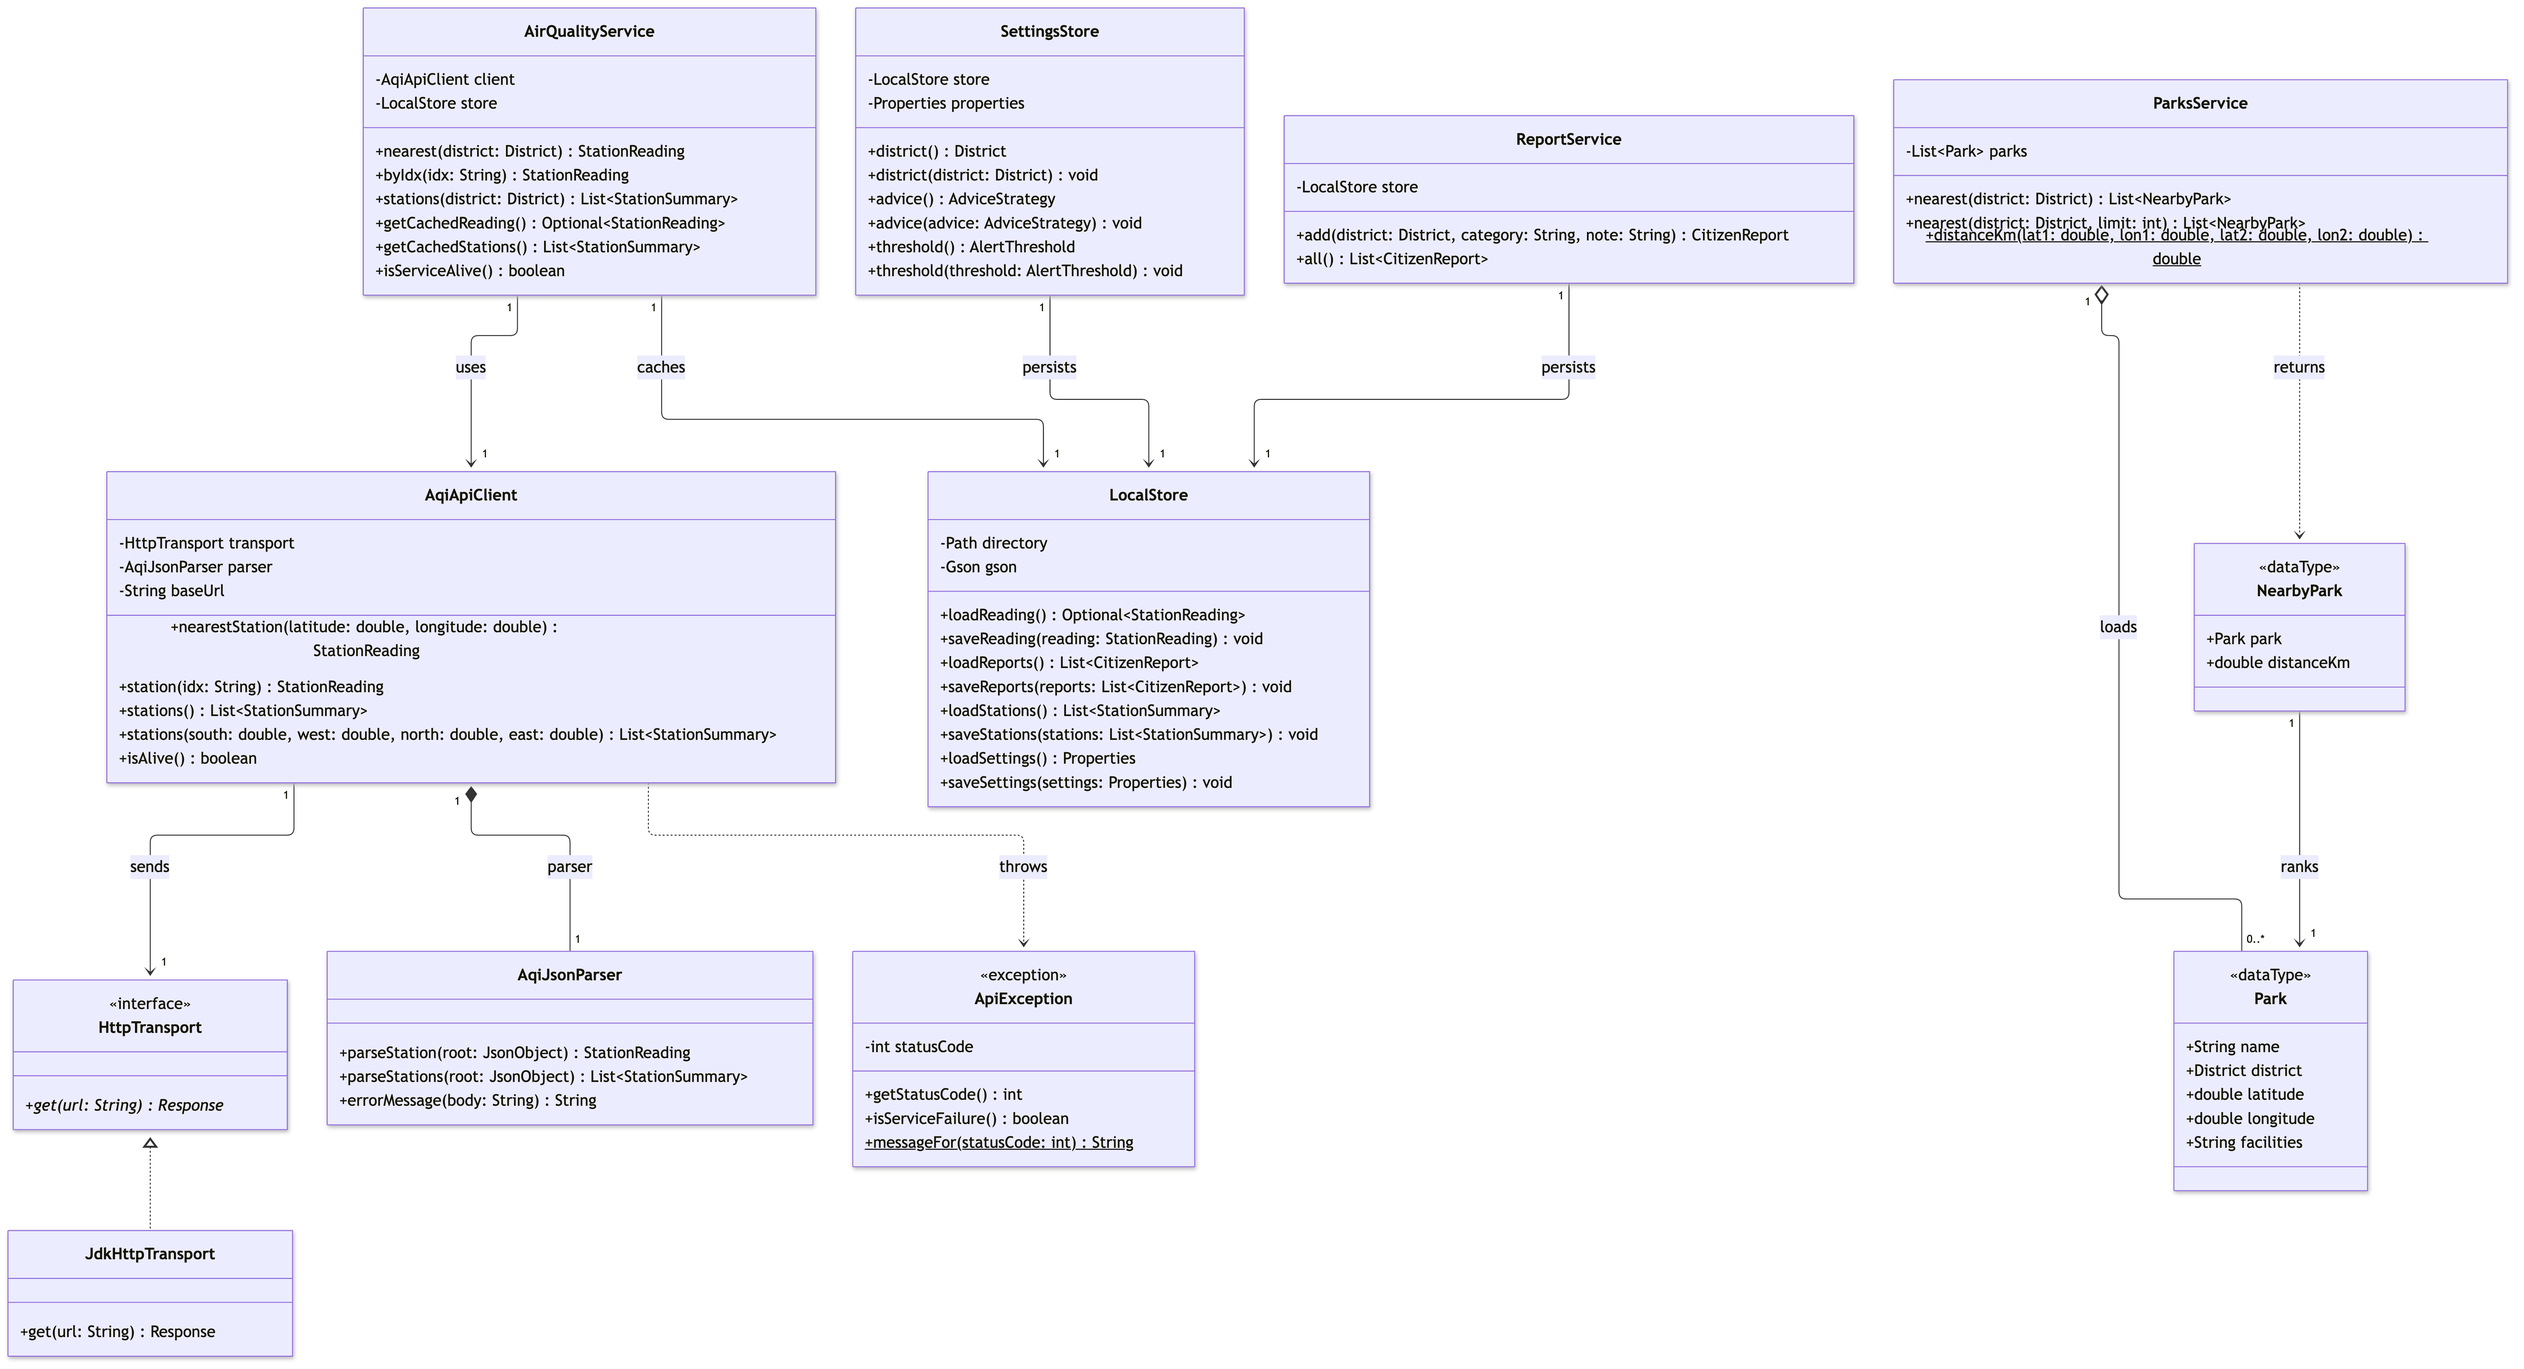
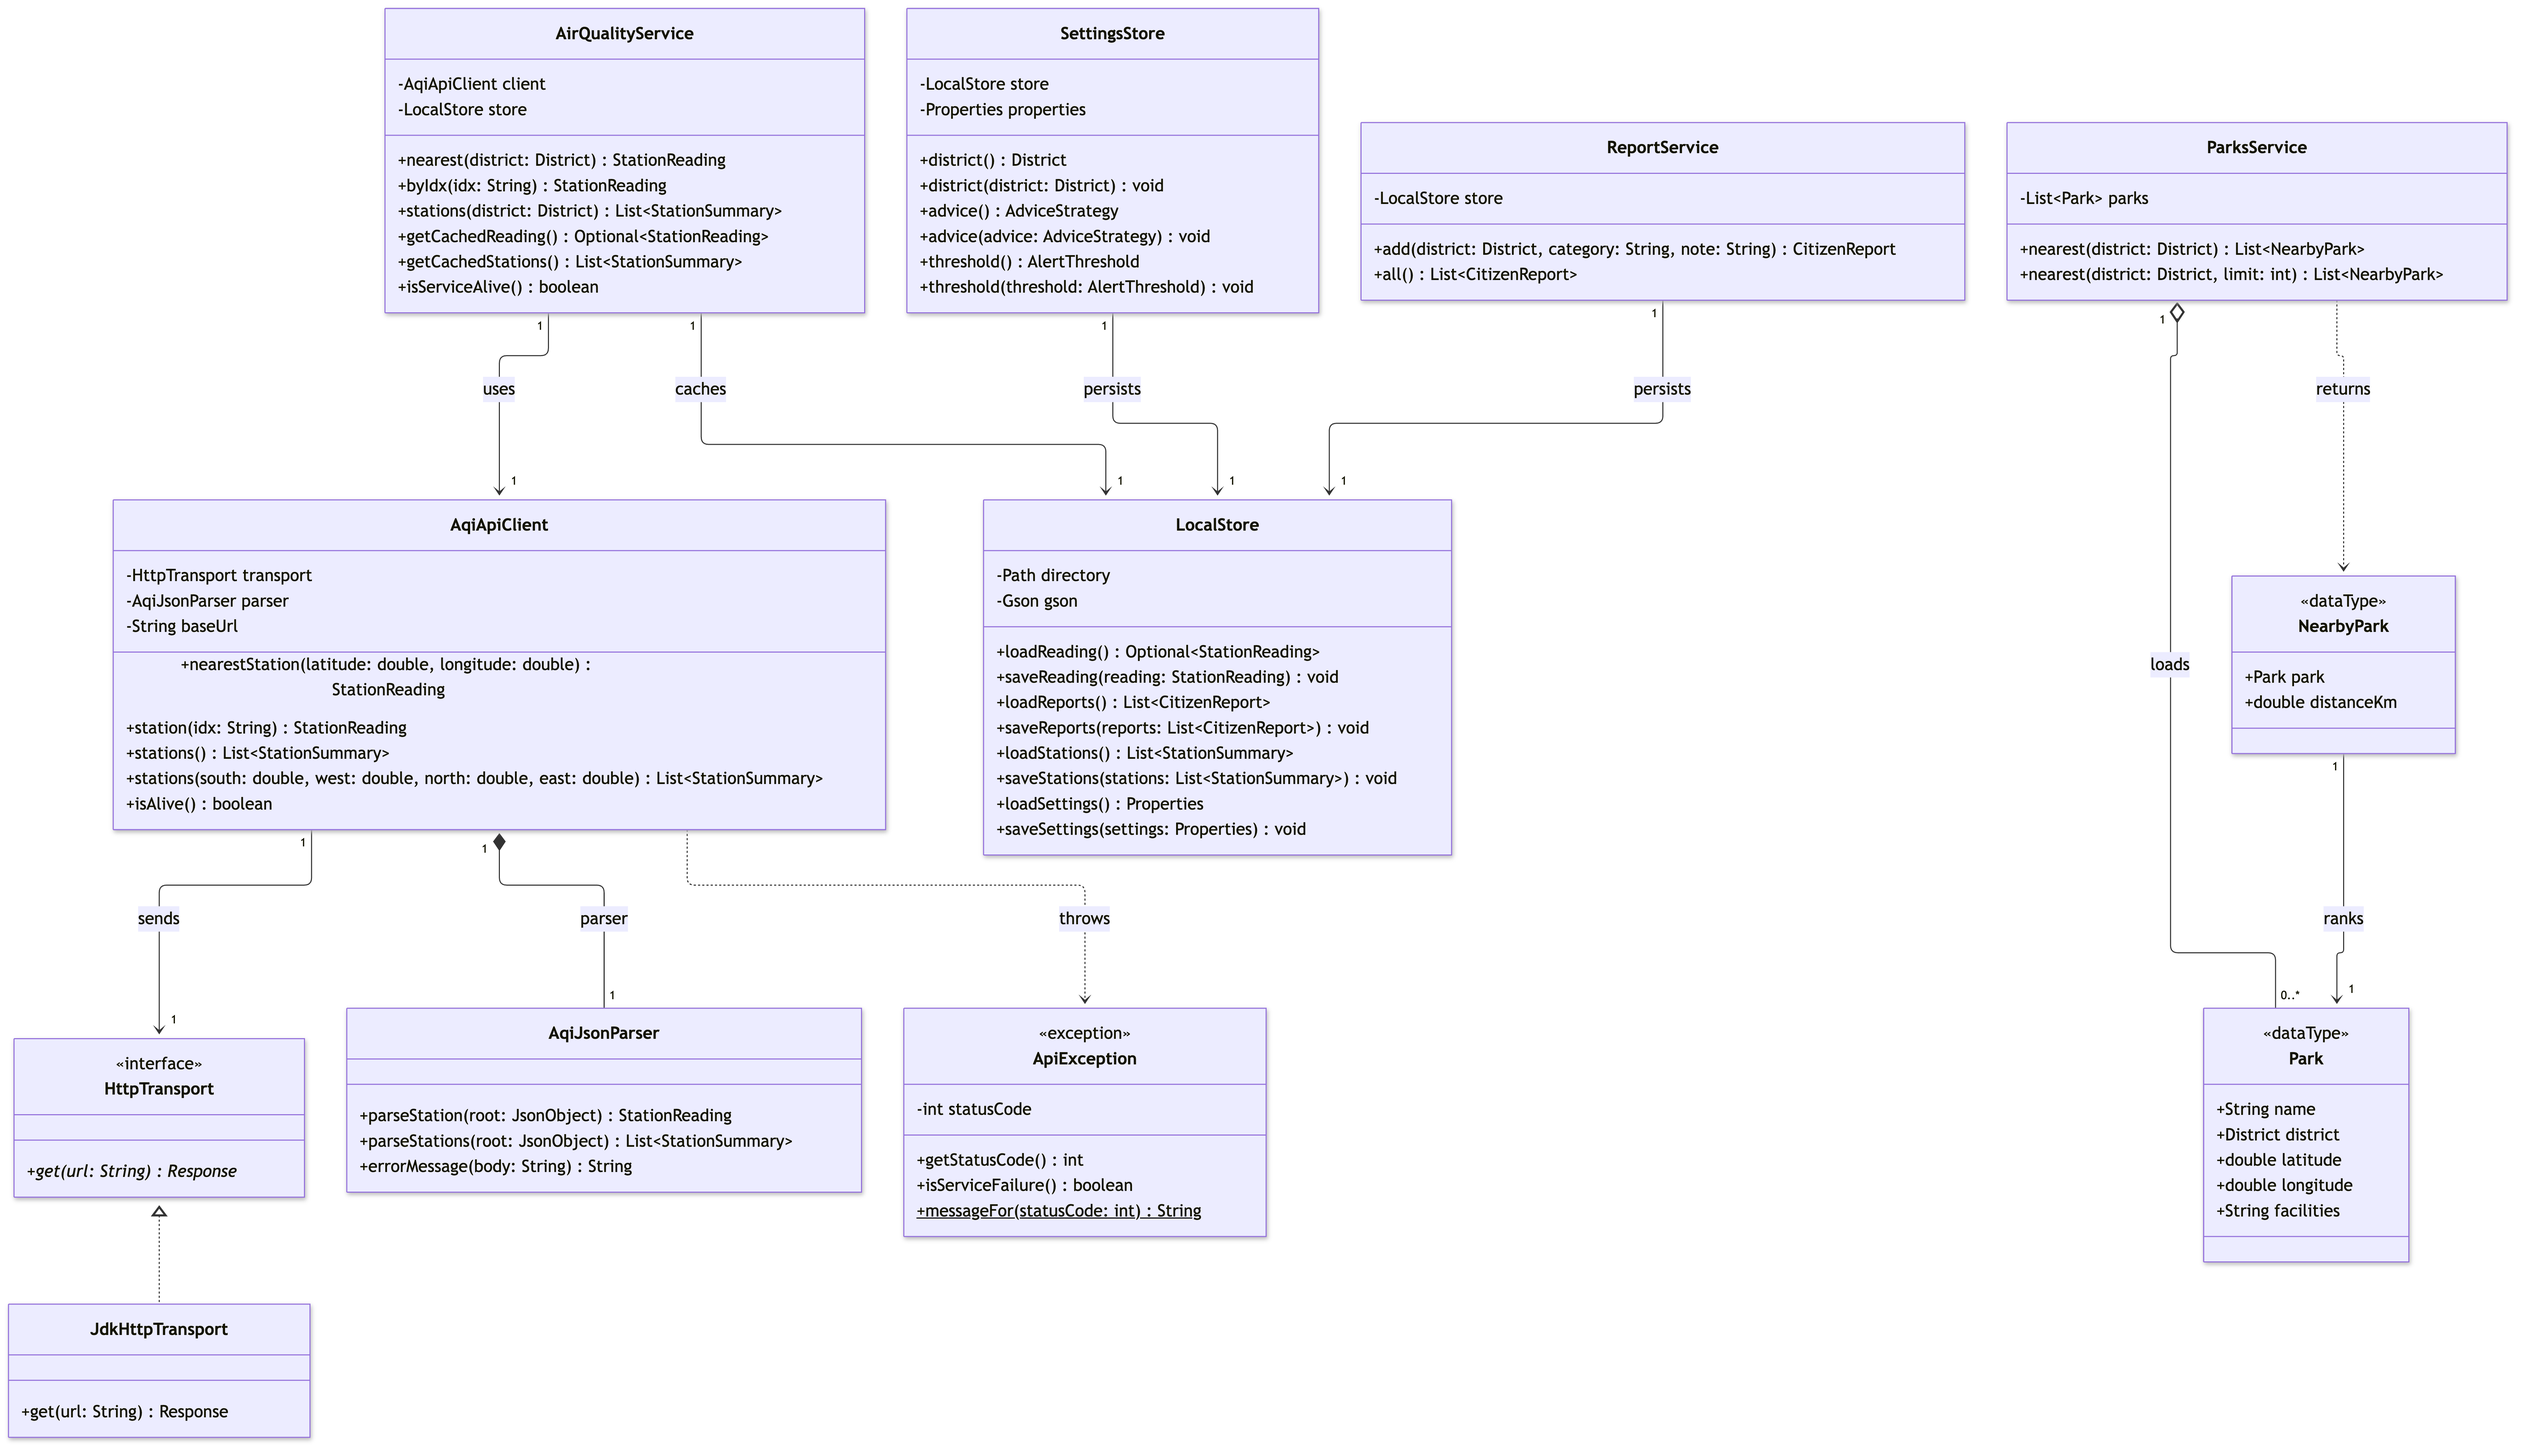
refactor: remove redundant Async.Work and distance wrapper

diff --git a/src/main/java/dev/melvinchia3636/airngreen/controller/Async.java b/src/main/java/dev/melvinchia3636/airngreen/controller/Async.java
@@ -1,5 +1,6 @@
 package dev.melvinchia3636.airngreen.controller;
 
+import java.util.concurrent.Callable;
 import java.util.concurrent.ExecutionException;
 import java.util.function.Consumer;
 
@@ -22,7 +23,7 @@ public final class Async {
      * @param failure consumer called when the work throws
      * @param <T>     result type
      */
-    public static <T> void run(Work<T> work, Consumer<T> success,
+    public static <T> void run(Callable<T> work, Consumer<T> success,
                                Consumer<Exception> failure) {
         new SwingWorker<T, Void>() {
             @Override
@@ -47,22 +48,5 @@ public final class Async {
     private static Exception unwrap(ExecutionException failed) {
         Throwable cause = failed.getCause();
         return cause instanceof Exception exception ? exception : failed;
-    }
-
-    /**
-     * Blocking operation with a checked exception.
-     *
-     * @param <T> result type
-     */
-    @FunctionalInterface
-    public interface Work<T> {
-
-        /**
-         * Performs the work.
-         *
-         * @return the result
-         * @throws Exception when the work fails
-         */
-        T call() throws Exception;
     }
 }

diff --git a/src/main/java/dev/melvinchia3636/airngreen/service/ParksService.java b/src/main/java/dev/melvinchia3636/airngreen/service/ParksService.java
@@ -106,26 +106,12 @@ public final class ParksService {
         }
 
         return parks.stream()
-                .map(park -> new NearbyPark(park, distanceKm(
+                .map(park -> new NearbyPark(park, GeoDistance.kmBetween(
                         district.latitude(), district.longitude(),
                         park.latitude(), park.longitude())))
                 .sorted(Comparator.comparingDouble(NearbyPark::distanceKm))
                 .limit(limit)
                 .toList();
-    }
-
-    /**
-     * Great-circle distance between two points.
-     *
-     * @param lat1 first latitude in degrees
-     * @param lon1 first longitude in degrees
-     * @param lat2 second latitude in degrees
-     * @param lon2 second longitude in degrees
-     * @return distance in kilometres
-     */
-    public static double distanceKm(double lat1, double lon1,
-                                    double lat2, double lon2) {
-        return GeoDistance.kmBetween(lat1, lon1, lat2, lon2);
     }
 
     private static List<Park> toParks(ParkEntry[] entries) {

diff --git a/src/test/java/dev/melvinchia3636/airngreen/service/ParksServiceTest.java b/src/test/java/dev/melvinchia3636/airngreen/service/ParksServiceTest.java
@@ -47,15 +47,15 @@ class ParksServiceTest {
 
     @Test
     void distance_isZeroForTheSamePoint() {
-        assertEquals(0, ParksService.distanceKm(3.139, 101.6869,
+        assertEquals(0, GeoDistance.kmBetween(3.139, 101.6869,
                 3.139, 101.6869), 0.000001);
     }
 
     @Test
     void distance_isSymmetric() {
-        double forward = ParksService.distanceKm(3.139, 101.6869,
+        double forward = GeoDistance.kmBetween(3.139, 101.6869,
                 2.9264, 101.6964);
-        double backward = ParksService.distanceKm(2.9264, 101.6964,
+        double backward = GeoDistance.kmBetween(2.9264, 101.6964,
                 3.139, 101.6869);
 
         assertAll(
